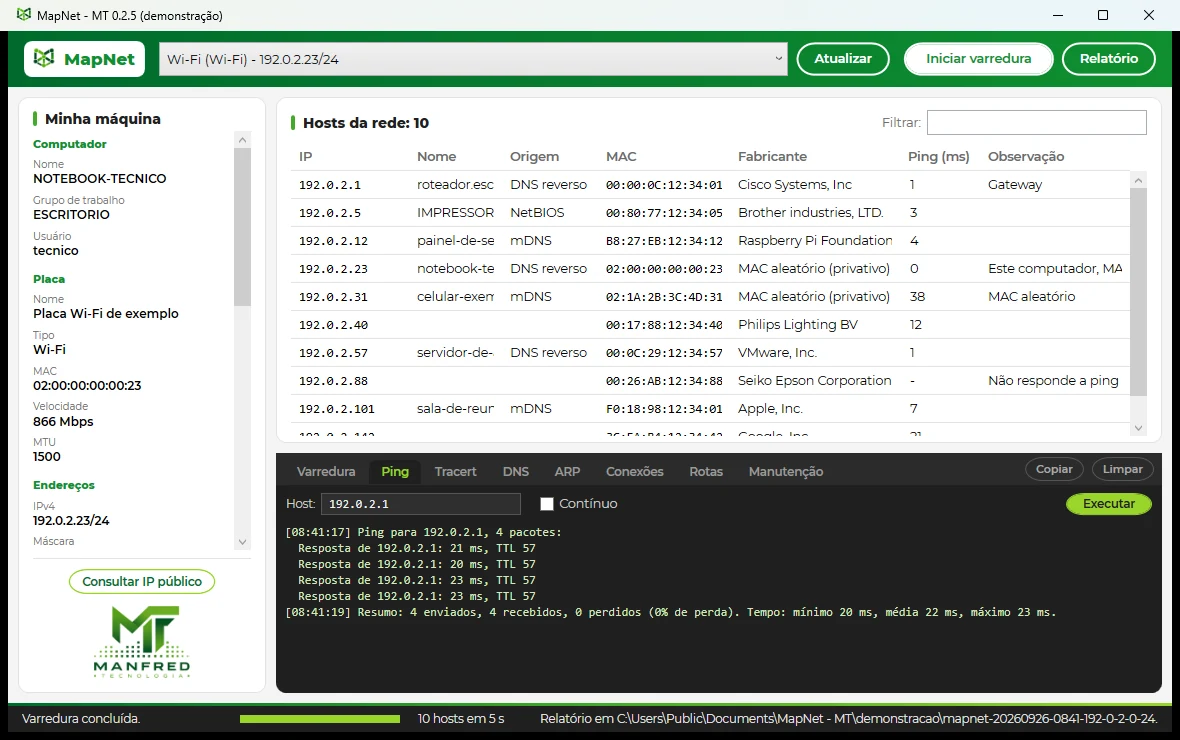
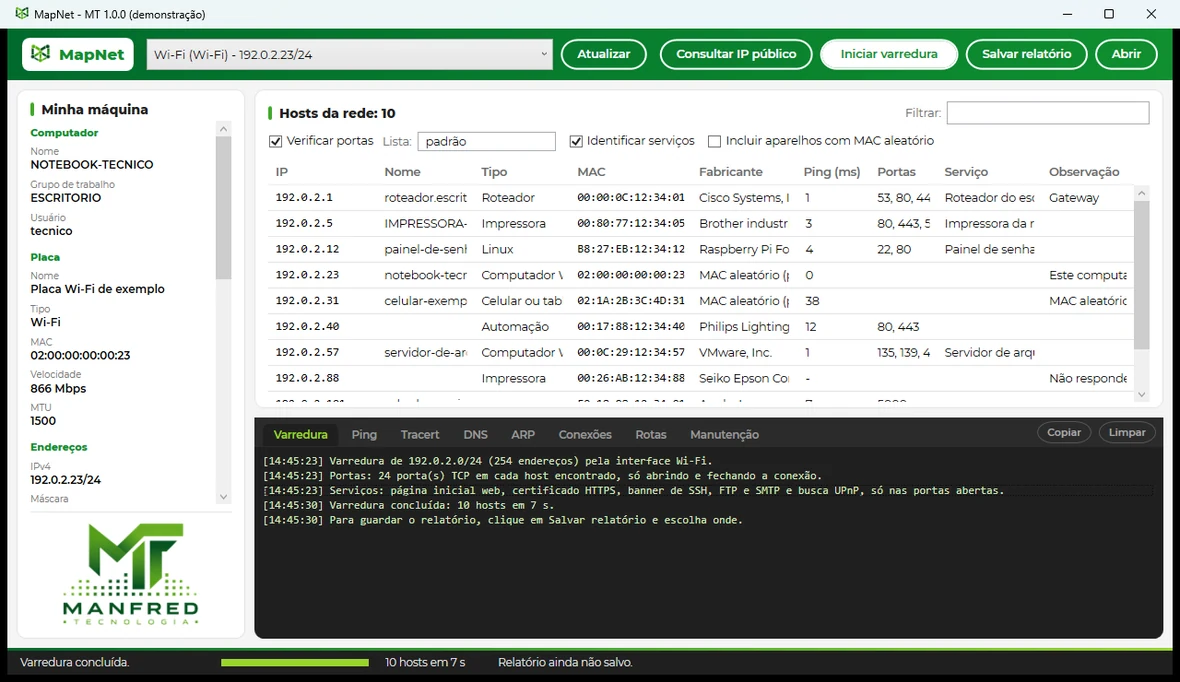
Atualiza a tela da pagina para a versao 1.0.0
A imagem da pagina ainda era da v0.2.5, sem a coluna Tipo, as portas, os
servicos e o botao Salvar relatorio. A nova sai do modo de demonstracao,
com enderecos reservados para documentacao, como pede a regra do projeto.

Autores: Manfred Heil Junior

diff --git a/public/index.html b/public/index.html
@@ -24,8 +24,8 @@
   <h1>MapNet - MT</h1>
   <p class="topo__frase">Inventário da rede local para Windows. Mostra quem já está na rede, em qual endereço e de onde vêm as configurações, para você saber onde ligar o próximo equipamento.</p>
   <figure class="tela">
-    <button type="button" id="abrir-tela" aria-label="Ampliar a tela do programa"><img src="img/mapnet-tela.webp" width="1180" height="740" alt="Janela do MapNet - MT com a tabela de hosts, a coluna Minha máquina e o ping no console"></button>
-    <dialog class="ampliada" id="tela-ampliada" aria-label="Tela do programa ampliada"><img src="img/mapnet-tela.webp" width="1180" height="740" alt="Janela do MapNet - MT ampliada"></dialog>
+    <button type="button" id="abrir-tela" aria-label="Ampliar a tela do programa"><img src="img/mapnet-tela.webp" width="1180" height="682" alt="Janela do MapNet - MT com a coluna Minha máquina e a tabela de hosts, com tipo, portas e serviços"></button>
+    <dialog class="ampliada" id="tela-ampliada" aria-label="Tela do programa ampliada"><img src="img/mapnet-tela.webp" width="1180" height="682" alt="Janela do MapNet - MT ampliada"></dialog>
   </figure>
   <div class="acoes">
     <a class="btn btn--primario" href="https://github.com/manfredjr/mapnet/releases/latest/download/mapnet.exe">Baixar para Windows</a>
